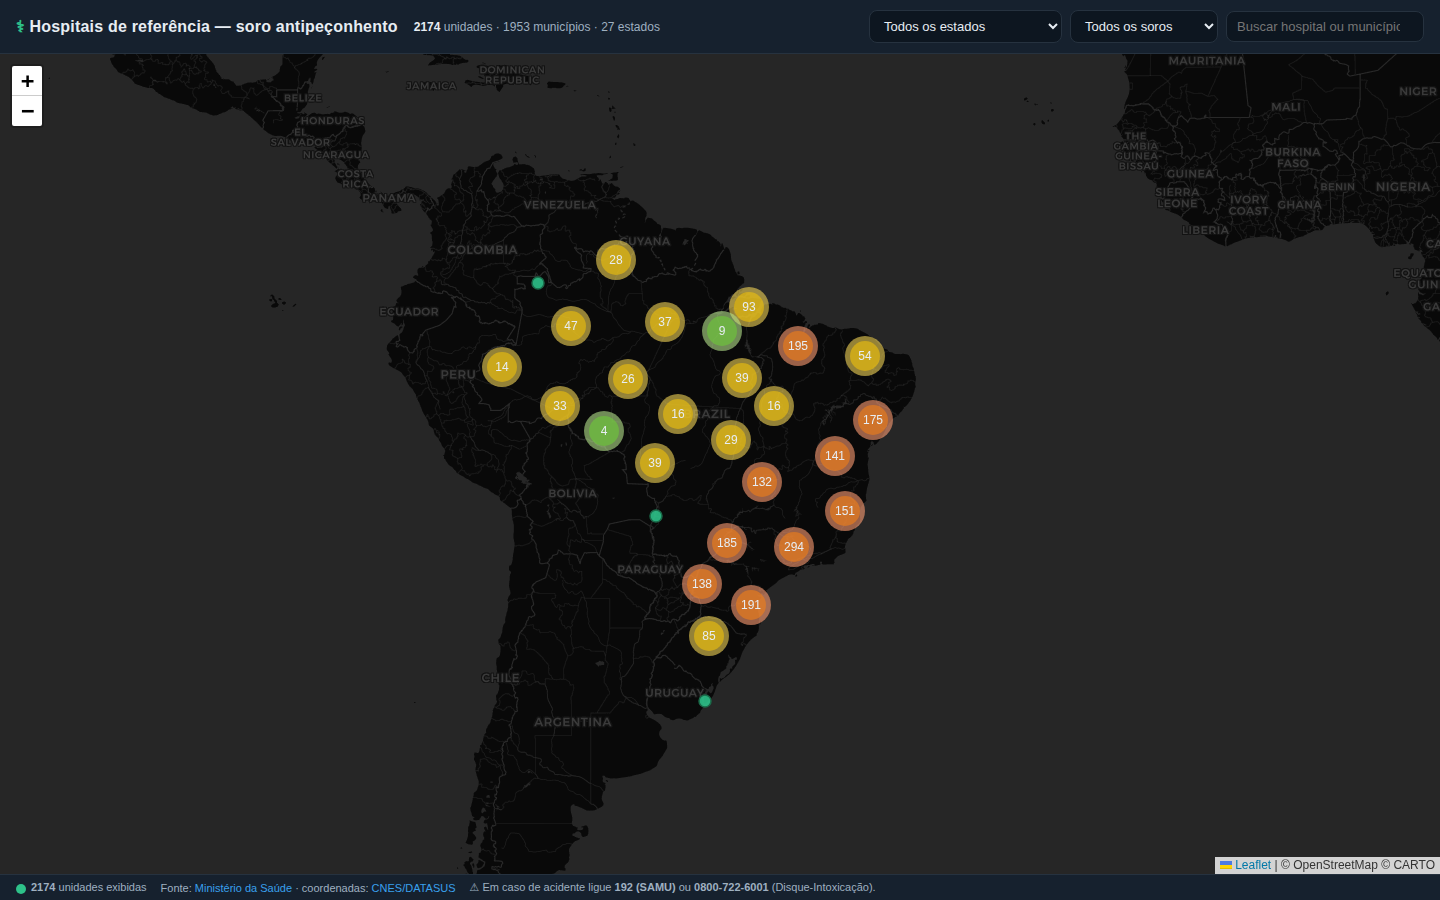
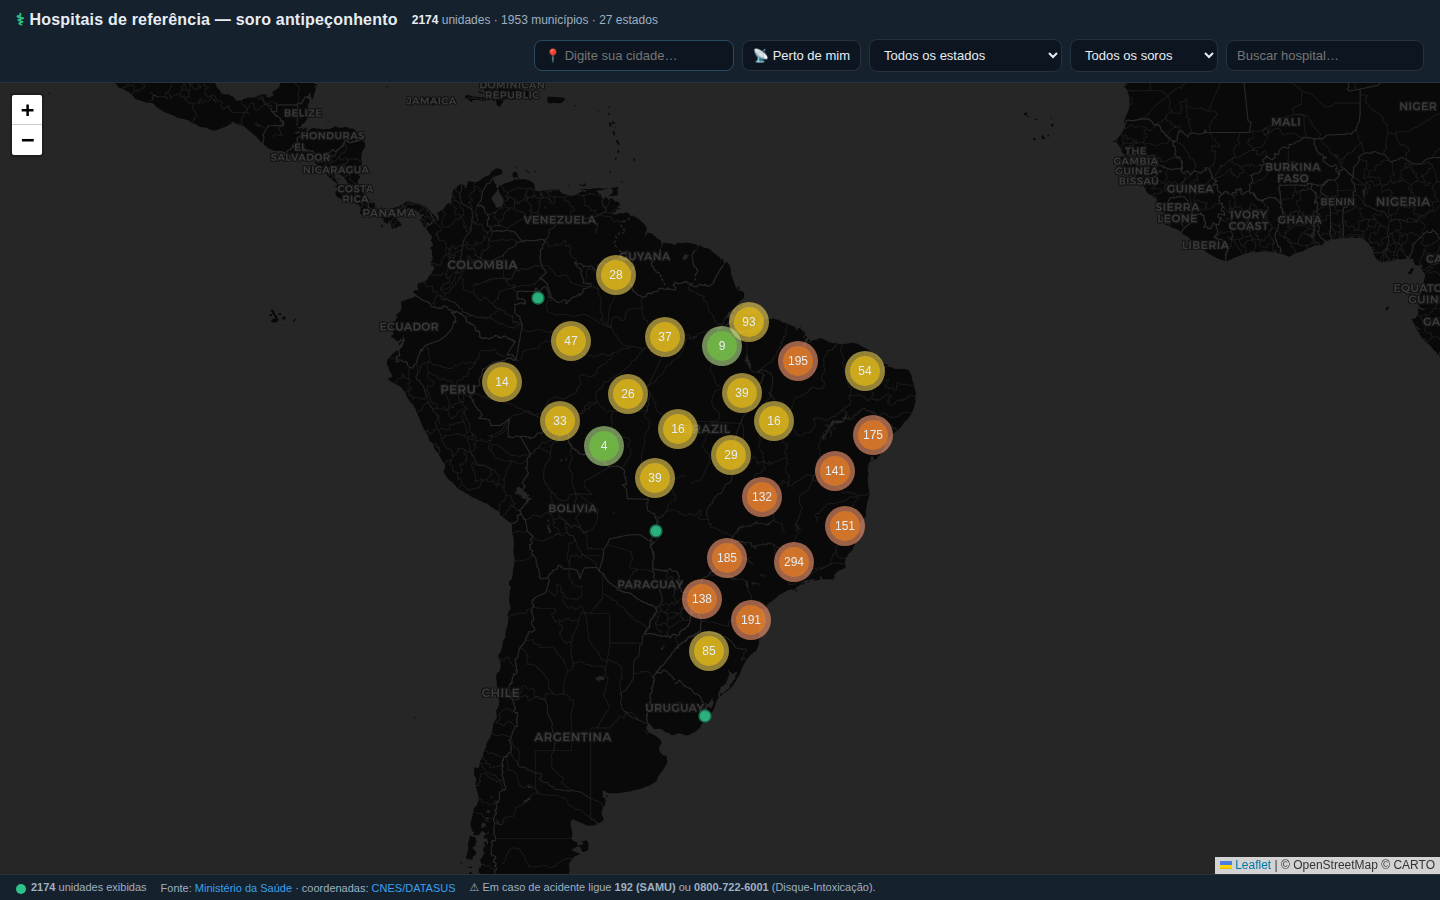
Busca por proximidade: encontrar hospitais mais próximos de uma cidade
- Autocomplete com todas as ~5.570 cidades do Brasil (coords do IBGE)
- Lista os hospitais mais próximos ordenados por distância (haversine)
- Botão "Perto de mim" (geolocalização) e deep-link ?cidade=
- Distância também exibida no popup; link de rota p/ Google Maps
- Respeita o filtro de soro (ex.: mais próximo com anticrotálico)

diff --git a/index.html b/index.html
@@ -4,7 +4,7 @@
 <meta charset="utf-8">
 <meta name="viewport" content="width=device-width, initial-scale=1">
 <title>Hospitais com Soro Antipeçonhento no Brasil</title>
-<meta name="description" content="Mapa interativo dos hospitais de referência do SUS para atendimento a acidentes com animais peçonhentos (soro antiveneno), por estado.">
+<meta name="description" content="Mapa interativo dos hospitais de referência do SUS para atendimento a acidentes com animais peçonhentos (soro antiveneno). Busque sua cidade e veja os mais próximos.">
 <link rel="stylesheet" href="https://unpkg.com/leaflet@1.9.4/dist/leaflet.css">
 <link rel="stylesheet" href="https://unpkg.com/leaflet.markercluster@1.5.3/dist/MarkerCluster.css">
 <link rel="stylesheet" href="https://unpkg.com/leaflet.markercluster@1.5.3/dist/MarkerCluster.Default.css">
@@ -13,16 +13,39 @@
   *{box-sizing:border-box}
   html,body{height:100%;margin:0;font-family:-apple-system,BlinkMacSystemFont,"Segoe UI",Roboto,Helvetica,Arial,sans-serif;color:var(--txt);background:var(--bg)}
   #app{display:flex;flex-direction:column;height:100%}
-  header{padding:10px 16px;background:var(--panel);border-bottom:1px solid var(--line);display:flex;flex-wrap:wrap;gap:10px 16px;align-items:center}
+  header{padding:10px 16px;background:var(--panel);border-bottom:1px solid var(--line);display:flex;flex-wrap:wrap;gap:10px 14px;align-items:center}
   header h1{font-size:16px;margin:0;font-weight:650;letter-spacing:.2px}
   header h1 .ico{color:var(--accent)}
   .count{font-size:12px;color:var(--mut)}
   .count b{color:var(--txt)}
   .controls{display:flex;flex-wrap:wrap;gap:8px;margin-left:auto;align-items:center}
-  select,input{background:#0d1620;color:var(--txt);border:1px solid var(--line);border-radius:8px;padding:7px 10px;font-size:13px;outline:none}
-  input{min-width:190px}
+  select,input,button{background:#0d1620;color:var(--txt);border:1px solid var(--line);border-radius:8px;padding:7px 10px;font-size:13px;outline:none}
+  input{min-width:170px}
   select:focus,input:focus{border-color:var(--accent2)}
+  button{cursor:pointer;display:inline-flex;align-items:center;gap:5px}
+  button:hover{border-color:var(--accent2)}
+  .city-wrap{position:relative}
+  #cidade{min-width:200px;border-color:#2a4a63}
+  #sug{position:absolute;top:calc(100% + 4px);left:0;right:0;z-index:1200;background:#0d1620;border:1px solid var(--line);border-radius:10px;max-height:280px;overflow:auto;display:none;box-shadow:0 8px 24px rgba(0,0,0,.5)}
+  #sug div{padding:8px 11px;font-size:13px;cursor:pointer;border-bottom:1px solid #1a2632}
+  #sug div:last-child{border-bottom:0}
+  #sug div:hover,#sug div.active{background:#16344a}
+  #sug .uf{color:var(--mut);font-size:11px;margin-left:6px}
   #map{flex:1;min-height:0}
+  /* nearby results panel */
+  #nearby{position:absolute;z-index:1100;top:12px;left:12px;width:330px;max-width:calc(100vw - 24px);max-height:calc(100% - 24px);background:rgba(16,26,36,.97);border:1px solid var(--line);border-radius:14px;display:none;flex-direction:column;box-shadow:0 10px 30px rgba(0,0,0,.5);backdrop-filter:blur(3px)}
+  #nearby .nb-head{padding:11px 13px;border-bottom:1px solid var(--line);display:flex;align-items:flex-start;gap:8px}
+  #nearby .nb-title{font-weight:700;font-size:13.5px;line-height:1.3}
+  #nearby .nb-sub{color:var(--mut);font-size:11.5px;margin-top:2px}
+  #nearby .nb-close{margin-left:auto;background:none;border:none;color:var(--mut);font-size:18px;line-height:1;padding:0 2px;cursor:pointer}
+  #nbList{overflow:auto;padding:4px}
+  .nb-item{padding:9px 10px;border-radius:9px;cursor:pointer;display:flex;gap:9px;align-items:flex-start}
+  .nb-item:hover{background:#16344a}
+  .nb-rank{background:#13362a;color:#7fe0b4;border:1px solid #1e5a44;border-radius:7px;min-width:22px;height:22px;display:flex;align-items:center;justify-content:center;font-size:11px;font-weight:700;flex:0 0 auto;margin-top:1px}
+  .nb-km{margin-left:auto;color:var(--accent);font-weight:700;font-size:12.5px;white-space:nowrap;flex:0 0 auto}
+  .nb-name{font-size:12.7px;font-weight:600;line-height:1.25}
+  .nb-loc{color:var(--mut);font-size:11px;margin-top:1px}
+  .nb-soros{color:#7fb7d8;font-size:10.5px;margin-top:2px}
   .leaflet-popup-content-wrapper{background:#101a24;color:var(--txt);border-radius:12px}
   .leaflet-popup-tip{background:#101a24}
   .leaflet-popup-content{margin:12px 14px;line-height:1.4;font-size:13px;max-width:280px}
@@ -30,14 +53,16 @@
   .pop-loc{color:var(--mut);font-size:12px;margin-bottom:8px}
   .pop-row{margin:4px 0;font-size:12.5px}
   .pop-row .lbl{color:var(--mut)}
+  .pop-dist{display:inline-block;background:#10233a;color:#7fc4f0;border:1px solid #244a6b;border-radius:6px;padding:1px 7px;font-size:11.5px;margin-top:4px}
   .chips{display:flex;flex-wrap:wrap;gap:4px;margin-top:6px}
   .chip{background:#13362a;color:#7fe0b4;border:1px solid #1e5a44;border-radius:999px;padding:2px 8px;font-size:11px}
   .badge-aprox{display:inline-block;background:#3a2a12;color:#f0c277;border:1px solid #6b4d1e;border-radius:6px;padding:1px 6px;font-size:10.5px;margin-top:6px}
   a{color:var(--accent2);text-decoration:none}
   a:hover{text-decoration:underline}
+  .city-pin{filter:drop-shadow(0 2px 3px rgba(0,0,0,.6))}
   footer{padding:6px 16px;background:var(--panel);border-top:1px solid var(--line);font-size:11px;color:var(--mut);display:flex;gap:14px;flex-wrap:wrap;align-items:center}
   .legend-dot{display:inline-block;width:10px;height:10px;border-radius:50%;background:var(--accent);margin-right:5px;vertical-align:middle}
-  @media(max-width:680px){.controls{width:100%;margin-left:0}input{flex:1;min-width:0}header h1{width:100%}}
+  @media(max-width:680px){.controls{width:100%;margin-left:0}header h1{width:100%}#nearby{width:auto;right:12px}}
 </style>
 </head>
 <body>
@@ -46,12 +71,28 @@
     <h1><span class="ico">⚕</span> Hospitais de referência — soro antipeçonhento</h1>
     <span class="count" id="count">carregando…</span>
     <div class="controls">
+      <div class="city-wrap">
+        <input id="cidade" type="search" placeholder="📍 Digite sua cidade…" autocomplete="off">
+        <div id="sug"></div>
+      </div>
+      <button id="geo" title="Usar minha localização">📡 Perto de mim</button>
       <select id="uf"><option value="">Todos os estados</option></select>
       <select id="soro"><option value="">Todos os soros</option></select>
-      <input id="q" type="search" placeholder="Buscar hospital ou município…">
+      <input id="q" type="search" placeholder="Buscar hospital…">
     </div>
   </header>
-  <div id="map"></div>
+  <div id="map">
+    <div id="nearby">
+      <div class="nb-head">
+        <div>
+          <div class="nb-title" id="nbTitle"></div>
+          <div class="nb-sub" id="nbSub"></div>
+        </div>
+        <button class="nb-close" id="nbClose" title="Fechar">×</button>
+      </div>
+      <div id="nbList"></div>
+    </div>
+  </div>
   <footer>
     <span><span class="legend-dot"></span><b id="fcount">0</b>&nbsp;unidades exibidas</span>
     <span>Fonte: <a href="https://www.gov.br/saude/pt-br/assuntos/saude-de-a-a-z/a/animais-peconhentos/hospitais-de-referencia" target="_blank" rel="noopener">Ministério da Saúde</a> · coordenadas: <a href="https://cnes.datasus.gov.br/" target="_blank" rel="noopener">CNES/DATASUS</a></span>
@@ -65,71 +106,178 @@
 const UFNAME={AC:'Acre',AL:'Alagoas',AP:'Amapá',AM:'Amazonas',BA:'Bahia',CE:'Ceará',DF:'Distrito Federal',ES:'Espírito Santo',GO:'Goiás',MA:'Maranhão',MT:'Mato Grosso',MS:'Mato Grosso do Sul',MG:'Minas Gerais',PA:'Pará',PB:'Paraíba',PR:'Paraná',PE:'Pernambuco',PI:'Piauí',RJ:'Rio de Janeiro',RN:'Rio Grande do Norte',RS:'Rio Grande do Sul',RO:'Rondônia',RR:'Roraima',SC:'Santa Catarina',SP:'São Paulo',SE:'Sergipe',TO:'Tocantins'};
 const titleCase=s=>(s||'').toLowerCase().replace(/(^|[\s\/\-])([a-zà-ú])/g,(m,a,b)=>a+b.toUpperCase());
 const fmtTel=t=>!t?'':t.replace(/\s+/g,' ').trim();
+const noAcc=s=>(s||'').normalize('NFD').replace(/[̀-ͯ]/g,'').toLowerCase();
+const toRad=d=>d*Math.PI/180;
+function haversine(a,b,c,d){const R=6371,dla=toRad(c-a),dlo=toRad(d-b);
+  const x=Math.sin(dla/2)**2+Math.cos(toRad(a))*Math.cos(toRad(c))*Math.sin(dlo/2)**2;
+  return 2*R*Math.asin(Math.sqrt(x));}
+const fmtKm=k=>k<1?Math.round(k*1000)+' m':(k<100?k.toFixed(1):Math.round(k))+' km';
 
 const map=L.map('map',{zoomControl:true,preferCanvas:true}).setView([-14.6,-52],4);
 L.tileLayer('https://{s}.basemaps.cartocdn.com/dark_all/{z}/{x}/{y}{r}.png',{
   attribution:'&copy; OpenStreetMap &copy; CARTO',maxZoom:19,subdomains:'abcd'}).addTo(map);
-
 const cluster=L.markerClusterGroup({maxClusterRadius:50,chunkedLoading:true,spiderfyOnMaxZoom:true});
 map.addLayer(cluster);
 
-let DATA=[];
+let DATA=[], CIDADES=[], origin=null, originMarker=null, markerByCnes={};
 const qEl=document.getElementById('q'), ufEl=document.getElementById('uf'), soroEl=document.getElementById('soro');
+const cityEl=document.getElementById('cidade'), sugEl=document.getElementById('sug');
+const nbEl=document.getElementById('nearby');
+
+function passesFilter(h){
+  if(ufEl.value && h.uf!==ufEl.value) return false;
+  if(soroEl.value && !(h.antivenenos||[]).includes(soroEl.value)) return false;
+  if(qEl.value.trim()){const q=qEl.value.trim().toLowerCase();
+    if(!((h.nome||'')+' '+(h.municipio||'')).toLowerCase().includes(q)) return false;}
+  return true;
+}
 
 function popup(h){
   const nome=titleCase(h.nome);
   let html=`<div class="pop-name">${nome||'Unidade de saúde'}</div>`;
   html+=`<div class="pop-loc">${titleCase(h.municipio)} — ${h.uf} (${UFNAME[h.uf]||''})</div>`;
+  if(origin){const dk=haversine(origin.lat,origin.lon,h.lat,h.lon);
+    html+=`<div class="pop-dist">📏 ${fmtKm(dk)} de ${origin.name}</div>`;}
   if(h.endereco) html+=`<div class="pop-row"><span class="lbl">Endereço:</span> ${titleCase(h.endereco)}${h.cep?` · CEP ${String(h.cep).replace(/(\d{5})(\d{3})/,'$1-$2')}`:''}</div>`;
   if(h.telefone) html+=`<div class="pop-row"><span class="lbl">Telefone:</span> ${fmtTel(h.telefone)}</div>`;
   if(h.antivenenos&&h.antivenenos.length){
     html+=`<div class="pop-row"><span class="lbl">Soros disponíveis:</span></div><div class="chips">`+
-      h.antivenenos.map(s=>`<span class="chip">${s}</span>`).join('')+`</div>`;
-  }
-  html+=`<div class="pop-row" style="margin-top:8px"><span class="lbl">CNES:</span> <a href="https://cnes.datasus.gov.br/pages/estabelecimentos/ficha/identificacao/${String(h.cnes).padStart(7,'0')}" target="_blank" rel="noopener">${h.cnes}</a></div>`;
+      h.antivenenos.map(s=>`<span class="chip">${s}</span>`).join('')+`</div>`;}
+  html+=`<div class="pop-row" style="margin-top:8px"><span class="lbl">CNES:</span> <a href="https://cnes.datasus.gov.br/pages/estabelecimentos/ficha/identificacao/${String(h.cnes).padStart(7,'0')}" target="_blank" rel="noopener">${h.cnes}</a> · <a href="https://www.google.com/maps/dir/?api=1&destination=${h.lat},${h.lon}" target="_blank" rel="noopener">rota ↗</a></div>`;
   if(h.aprox) html+=`<div class="badge-aprox">📍 localização aproximada (centro do município)</div>`;
   return html;
 }
 
 function render(){
-  const q=qEl.value.trim().toLowerCase(), uf=ufEl.value, soro=soroEl.value;
-  cluster.clearLayers();
+  cluster.clearLayers(); markerByCnes={};
   const ms=[];
   for(const h of DATA){
-    if(uf && h.uf!==uf) continue;
-    if(soro && !(h.antivenenos||[]).includes(soro)) continue;
-    if(q){
-      const hay=((h.nome||'')+' '+(h.municipio||'')).toLowerCase();
-      if(!hay.includes(q)) continue;
-    }
+    if(!passesFilter(h)) continue;
     const m=L.circleMarker([h.lat,h.lon],{radius:6,weight:1.5,
       color:'#1b6b4a',fillColor:h.aprox?'#f0b34d':'#2ec28a',fillOpacity:.9});
     m.bindPopup(()=>popup(h),{maxWidth:300});
-    ms.push(m);
+    markerByCnes[h.cnes]=m; ms.push(m);
   }
   cluster.addLayers(ms);
   document.getElementById('fcount').textContent=ms.length;
+  if(origin) computeNearby();
 }
 
-fetch('hospitais.json').then(r=>r.json()).then(d=>{
-  DATA=d;
-  document.getElementById('count').innerHTML=`<b>${d.length}</b> unidades · ${new Set(d.map(h=>h.uf+h.municipio)).size} municípios · 27 estados`;
-  // populate UF select
-  Object.keys(UFNAME).sort((a,b)=>UFNAME[a].localeCompare(UFNAME[b])).forEach(u=>{
-    const o=document.createElement('option');o.value=u;o.textContent=UFNAME[u]+' ('+u+')';ufEl.appendChild(o);});
-  // populate serum select
-  const sset=new Set(); d.forEach(h=>(h.antivenenos||[]).forEach(s=>sset.add(s)));
-  [...sset].sort().forEach(s=>{const o=document.createElement('option');o.value=s;o.textContent='Soro '+s;soroEl.appendChild(o);});
-  render();
-}).catch(e=>{document.getElementById('count').textContent='erro ao carregar dados';console.error(e);});
+function openHospital(h){
+  const m=markerByCnes[h.cnes];
+  if(!m){map.setView([h.lat,h.lon],12);return;}
+  cluster.zoomToShowLayer(m,()=>m.openPopup());
+}
 
+function computeNearby(){
+  if(!origin) return;
+  const list=DATA.filter(passesFilter)
+    .map(h=>({h,d:haversine(origin.lat,origin.lon,h.lat,h.lon)}))
+    .sort((a,b)=>a.d-b.d).slice(0,12);
+  document.getElementById('nbTitle').textContent='Mais próximos de '+origin.name;
+  const extra=[ufEl.value?UFNAME[ufEl.value]:null, soroEl.value?('soro '+soroEl.value):null].filter(Boolean).join(' · ');
+  document.getElementById('nbSub').textContent=list.length?('Toque para ver no mapa'+(extra?' · filtro: '+extra:'')):'Nenhuma unidade com os filtros atuais';
+  const box=document.getElementById('nbList'); box.innerHTML='';
+  list.forEach((it,i)=>{
+    const h=it.h, el=document.createElement('div'); el.className='nb-item';
+    el.innerHTML=`<div class="nb-rank">${i+1}</div>
+      <div style="min-width:0;flex:1">
+        <div class="nb-name">${titleCase(h.nome)||'Unidade de saúde'}</div>
+        <div class="nb-loc">${titleCase(h.municipio)} — ${h.uf}</div>
+        ${h.antivenenos&&h.antivenenos.length?`<div class="nb-soros">💉 ${h.antivenenos.join(', ')}</div>`:''}
+      </div>
+      <div class="nb-km">${fmtKm(it.d)}</div>`;
+    el.onclick=()=>openHospital(h);
+    box.appendChild(el);
+  });
+  nbEl.style.display='flex';
+  // enquadra cidade + 5 mais próximos
+  const pts=[[origin.lat,origin.lon],...list.slice(0,5).map(it=>[it.h.lat,it.h.lon])];
+  if(pts.length>1) map.fitBounds(pts,{padding:[60,60],maxZoom:11});
+  else map.setView([origin.lat,origin.lon],11);
+}
+
+function cityPin(lat,lon,label){
+  if(originMarker) map.removeLayer(originMarker);
+  const icon=L.divIcon({className:'city-pin',html:
+    '<svg width="30" height="40" viewBox="0 0 30 40" xmlns="http://www.w3.org/2000/svg"><path d="M15 0C7 0 1 6 1 14c0 9 14 26 14 26s14-17 14-26C29 6 23 0 15 0z" fill="#39a0ed" stroke="#fff" stroke-width="2"/><circle cx="15" cy="14" r="5" fill="#fff"/></svg>',
+    iconSize:[30,40], iconAnchor:[15,40], popupAnchor:[0,-36]});
+  originMarker=L.marker([lat,lon],{icon,zIndexOffset:1000}).addTo(map).bindPopup('<b>📍 '+label+'</b>');
+}
+
+function setOrigin(o){
+  origin=o; cityPin(o.lat,o.lon,o.name); computeNearby();
+}
+
+/* ---------- autocomplete de cidades ---------- */
+let sugIdx=-1, sugItems=[];
+function showSug(){
+  const v=noAcc(cityEl.value.trim());
+  if(v.length<2){sugEl.style.display='none';return;}
+  const starts=[], incl=[];
+  for(const c of CIDADES){const n=noAcc(c.n);
+    if(n.startsWith(v)) starts.push(c);
+    else if(n.includes(v)) incl.push(c);
+    if(starts.length>=8) break;}
+  sugItems=starts.concat(incl).slice(0,8); sugIdx=-1;
+  if(!sugItems.length){sugEl.style.display='none';return;}
+  sugEl.innerHTML=sugItems.map((c,i)=>`<div data-i="${i}">${c.n}<span class="uf">${c.uf}</span></div>`).join('');
+  [...sugEl.children].forEach(el=>el.onclick=()=>pickSug(+el.dataset.i));
+  sugEl.style.display='block';
+}
+function pickSug(i){
+  const c=sugItems[i]; if(!c) return;
+  cityEl.value=c.n+' - '+c.uf; sugEl.style.display='none';
+  setOrigin({name:c.n+' - '+c.uf, lat:c.lat, lon:c.lon});
+}
+cityEl.addEventListener('input',showSug);
+cityEl.addEventListener('keydown',e=>{
+  if(sugEl.style.display==='none') return;
+  if(e.key==='ArrowDown'){e.preventDefault();sugIdx=Math.min(sugIdx+1,sugItems.length-1);}
+  else if(e.key==='ArrowUp'){e.preventDefault();sugIdx=Math.max(sugIdx-1,0);}
+  else if(e.key==='Enter'){e.preventDefault();pickSug(sugIdx<0?0:sugIdx);return;}
+  else return;
+  [...sugEl.children].forEach((el,i)=>el.classList.toggle('active',i===sugIdx));
+});
+document.addEventListener('click',e=>{if(!e.target.closest('.city-wrap'))sugEl.style.display='none';});
+
+document.getElementById('nbClose').onclick=()=>{
+  nbEl.style.display='none'; origin=null; cityEl.value='';
+  if(originMarker){map.removeLayer(originMarker);originMarker=null;}
+  render();
+};
+document.getElementById('geo').onclick=()=>{
+  if(!navigator.geolocation){alert('Geolocalização não suportada neste navegador.');return;}
+  navigator.geolocation.getCurrentPosition(p=>{
+    setOrigin({name:'minha localização', lat:p.coords.latitude, lon:p.coords.longitude});
+  },()=>alert('Não foi possível obter sua localização. Verifique as permissões.'),{enableHighAccuracy:true,timeout:8000});
+};
+
+[ufEl,soroEl].forEach(el=>el.addEventListener('change',render));
 let t; qEl.addEventListener('input',()=>{clearTimeout(t);t=setTimeout(render,180);});
-ufEl.addEventListener('change',()=>{render(); if(ufEl.value){/* zoom handled by fit below */}});
-soroEl.addEventListener('change',render);
-ufEl.addEventListener('change',()=>{
+ufEl.addEventListener('change',()=>{ // mantém comportamento de zoom só quando não há cidade ativa
+  if(origin) return;
   if(ufEl.value){const pts=DATA.filter(h=>h.uf===ufEl.value).map(h=>[h.lat,h.lon]); if(pts.length) map.fitBounds(pts,{padding:[40,40],maxZoom:9});}
   else map.setView([-14.6,-52],4);
 });
+
+Promise.all([
+  fetch('hospitais.json').then(r=>r.json()),
+  fetch('cidades.json').then(r=>r.json())
+]).then(([d,cid])=>{
+  DATA=d; CIDADES=cid;
+  document.getElementById('count').innerHTML=`<b>${d.length}</b> unidades · ${new Set(d.map(h=>h.uf+h.municipio)).size} municípios · 27 estados`;
+  Object.keys(UFNAME).sort((a,b)=>UFNAME[a].localeCompare(UFNAME[b])).forEach(u=>{
+    const o=document.createElement('option');o.value=u;o.textContent=UFNAME[u]+' ('+u+')';ufEl.appendChild(o);});
+  const sset=new Set(); d.forEach(h=>(h.antivenenos||[]).forEach(s=>sset.add(s)));
+  [...sset].sort().forEach(s=>{const o=document.createElement('option');o.value=s;o.textContent='Soro '+s;soroEl.appendChild(o);});
+  render();
+  // deep-link: ?cidade=Nome  (ou Nome-UF)
+  const qp=new URLSearchParams(location.search).get('cidade');
+  if(qp){const v=noAcc(qp.replace(/-/g,' ').trim());
+    let c=CIDADES.find(x=>noAcc(x.n)===v)||CIDADES.find(x=>noAcc(x.n+' '+x.uf)===v)||CIDADES.find(x=>noAcc(x.n).startsWith(v));
+    if(c){cityEl.value=c.n+' - '+c.uf; setOrigin({name:c.n+' - '+c.uf,lat:c.lat,lon:c.lon});}}
+}).catch(e=>{document.getElementById('count').textContent='erro ao carregar dados';console.error(e);});
 </script>
 </body>
 </html>

diff --git a/scripts/build_cidades.py b/scripts/build_cidades.py
@@ -1,0 +1,18 @@
+#!/usr/bin/env python3
+# Gera cidades.json (todas as cidades do Brasil + coordenadas) a partir do
+# dataset municipios-brasileiros (IBGE), para a busca "hospitais perto de mim".
+import csv, json, os
+ROOT=os.path.dirname(os.path.dirname(os.path.abspath(__file__))); os.chdir(ROOT)
+out=[]
+for r in csv.DictReader(open('data/municipios.csv', encoding='utf-8')):
+    out.append({'n':r['nome'],'uf':r['codigo_uf'],
+                'lat':round(float(r['latitude']),4),'lon':round(float(r['longitude']),4)})
+# mapeia codigo_uf numerico -> sigla
+COD={'11':'RO','12':'AC','13':'AM','14':'RR','15':'PA','16':'AP','17':'TO','21':'MA',
+ '22':'PI','23':'CE','24':'RN','25':'PB','26':'PE','27':'AL','28':'SE','29':'BA',
+ '31':'MG','32':'ES','33':'RJ','35':'SP','41':'PR','42':'SC','43':'RS','50':'MS',
+ '51':'MT','52':'GO','53':'DF'}
+for c in out: c['uf']=COD.get(c['uf'], c['uf'])
+out.sort(key=lambda c:(c['n'], c['uf']))
+json.dump(out, open('cidades.json','w'), ensure_ascii=False, separators=(',',':'))
+print('cidades:', len(out))

diff --git a/README.md b/README.md
@@ -21,6 +21,12 @@ municípios dos 27 estados**, mostrando para cada uma:
   fonêutrico, escorpiônico, aracnídico, antilonômico)
 - Código CNES (com link para a ficha no DATASUS)
 
+**📍 Busca por proximidade:** digite a sua cidade (ou use "Perto de mim") e o mapa
+lista os **hospitais mais próximos**, ordenados pela distância em km — inclusive
+em municípios vizinhos/estados vizinhos. Combina com o filtro de soro (ex.: "o
+hospital mais próximo que tem soro **anticrotálico**"). Também dá para compartilhar
+um link direto: `?cidade=Manaus`.
+
 Filtros por **estado**, por **tipo de soro** e busca por nome/município.
 
 > ⚠️ **Em caso de acidente, não perca tempo:** ligue **192 (SAMU)** ou para o
@@ -47,7 +53,9 @@ scripts/
   download.sh   # baixa os 27 PDFs de hospitais de referência do gov.br
   parse.py      # extrai os códigos CNES + soros de cada PDF (Piauí via OCR visual)
   enrich.py     # consulta a API do CNES p/ nome, endereço, telefone e coordenadas
+  build_cidades.py # gera cidades.json (todas as cidades do BR p/ a busca por proximidade)
 hospitais.json  # dataset final consumido pelo mapa
+cidades.json    # cidades do Brasil + coordenadas (busca "perto de mim")
 index.html      # mapa Leaflet (sem build, estático)
 ```
 